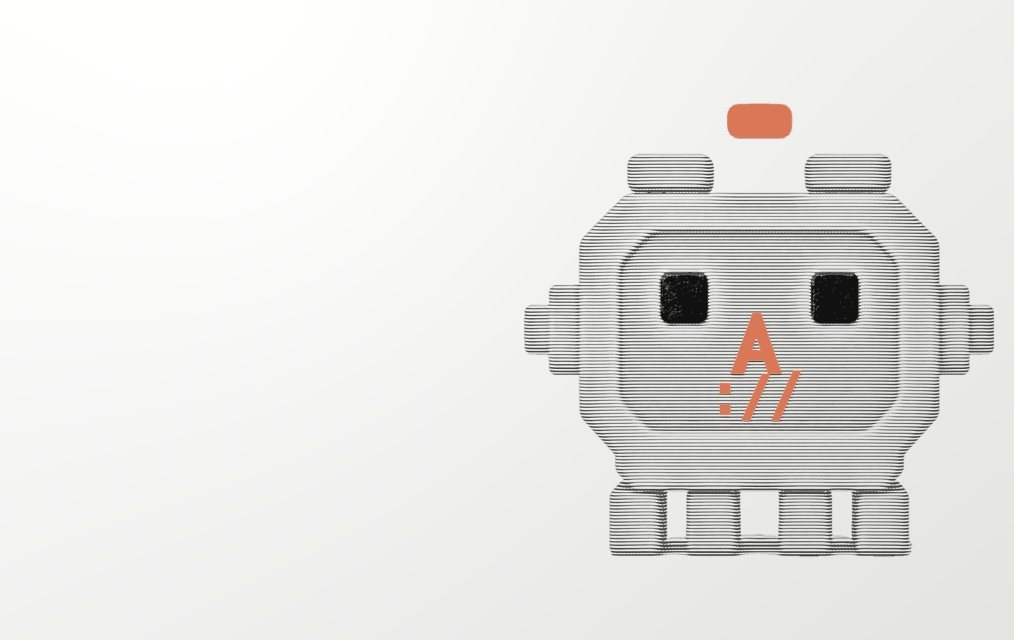
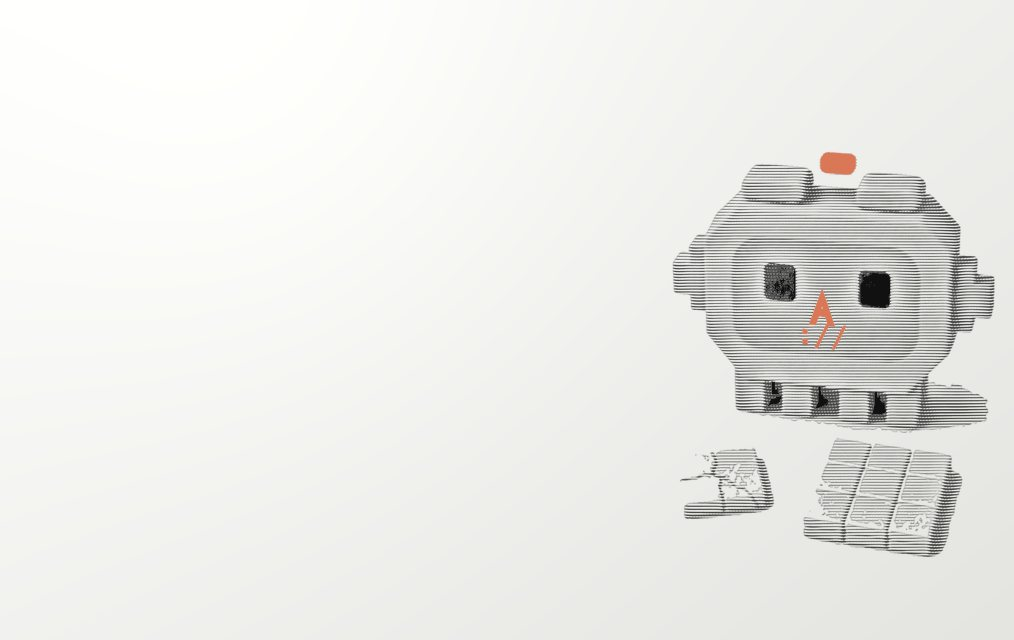
feat(console, ios): each plan card has its own Gizzi; console credit packs as vouchers
Same per-tier engraved scenes as the app (Free broken tile, Plus coral pill,
Max loupe, Ultra hero) in the console and the iPhone asset catalog. Console
credit packs use the app's voucher design on the plan materials.

Changed region(s): [[0.5197, 0.2188, 1.0, 0.875], [0.7032, 0.1562, 0.7949, 0.2188]]

diff --git a/surfaces/platform.allternit.com/src/pages/BillingPage.tsx b/surfaces/platform.allternit.com/src/pages/BillingPage.tsx
@@ -725,30 +725,53 @@ export function BillingPage() {
           <TransferToOrgPanel onTransferred={() => void load()} />
 
           <div className="grid grid-cols-2 lg:grid-cols-4 gap-3">
-            {packs.map((pack) => (
-              <div
-                key={pack.id}
-                className="rounded-xl border border-solid border-[var(--border-subtle)] bg-[var(--bg-secondary)]/40 p-4 flex flex-col"
-              >
-                <div className="text-[10px] uppercase tracking-wide text-[var(--text-tertiary)] mb-1">
-                  {pack.label}
-                </div>
-                <div className="text-[16px] font-semibold text-[var(--text-primary)]">
-                  ${pack.credits_usd.toFixed(2)} credits
-                </div>
-                <div className="text-[11px] text-[var(--text-secondary)] mt-1 mb-3">
-                  Pay ${pack.price_usd.toFixed(2)}
-                </div>
-                <button
-                  type="button"
-                  onClick={() => void handleBuyPack(pack.id)}
-                  disabled={buyingPackId !== null || !billingAvailable}
-                  className={`${QUIET_BUTTON_CLASS} mt-auto justify-center`}
+            {packs.map((pack, index) => {
+              // Vouchers on the plan materials, rising with the amount (same as the app).
+              const tier = (["free", "plus", "max", "ultra"] as const)[Math.min(3, index)];
+              const ink = {
+                free: { text: "#1b1b1a", sub: "rgba(0,0,0,.55)", stamp: ["#1b1b1a", "#fff"], light: false },
+                plus: { text: "#F2F1EC", sub: "rgba(255,255,255,.6)", stamp: ["#F2F1EC", "#111"], light: true },
+                max: { text: "#2B1C07", sub: "rgba(43,28,7,.62)", stamp: ["#2B1C07", "#E7C27A"], light: false },
+                ultra: { text: "#1E2024", sub: "rgba(30,32,36,.6)", stamp: ["#1E2024", "#F1F1EF"], light: false },
+              }[tier];
+              return (
+                <div
+                  key={pack.id}
+                  className="relative flex flex-col overflow-hidden rounded-xl bg-no-repeat"
+                  style={{
+                    color: ink.text,
+                    backgroundImage: `url(/billing/card-${tier}.jpg)`,
+                    backgroundSize: "300% auto",
+                    backgroundPosition: "0% 40%",
+                    border: tier === "free" ? "1px solid var(--border-subtle)" : undefined,
+                    boxShadow: tier === "ultra" ? "0 8px 18px rgba(0,0,0,.2), inset 0 0 0 1px rgba(255,255,255,.55)" : "0 6px 14px rgba(0,0,0,.14)",
+                  }}
                 >
-                  {buyingPackId === pack.id ? "Redirecting…" : "Buy credits"}
-                </button>
-              </div>
-            ))}
+                  <div className="px-3 pb-2 pt-2.5">
+                    <span className="font-mono" style={{ fontSize: 9, fontWeight: 700, letterSpacing: ".14em", padding: "1px 5px", borderRadius: 3, background: ink.stamp[0], color: ink.stamp[1] }}>
+                      {pack.label}
+                    </span>
+                    <div className="mt-2 font-mono text-[22px] leading-none">${pack.credits_usd.toFixed(0)}</div>
+                    <div className="mt-1 text-[10.5px]" style={{ color: ink.sub }}>
+                      Allternit Cloud credit · pay ${pack.price_usd.toFixed(2)}
+                    </div>
+                  </div>
+                  <div className="relative mt-auto px-2 pb-2 pt-2" style={{ borderTop: `1.5px dashed ${ink.light ? "rgba(255,255,255,.3)" : "rgba(0,0,0,.25)"}` }}>
+                    <i aria-hidden="true" className="absolute -left-[7px] -top-[7px] size-3 rounded-full bg-[var(--bg-primary)]" />
+                    <i aria-hidden="true" className="absolute -right-[7px] -top-[7px] size-3 rounded-full bg-[var(--bg-primary)]" />
+                    <button
+                      type="button"
+                      onClick={() => void handleBuyPack(pack.id)}
+                      disabled={buyingPackId !== null || !billingAvailable}
+                      className="w-full rounded-[9px] border-none px-2 py-1.5 text-[11.5px] font-semibold transition-opacity hover:opacity-90 disabled:cursor-not-allowed disabled:opacity-50"
+                      style={{ background: ink.stamp[0], color: ink.stamp[1] }}
+                    >
+                      {buyingPackId === pack.id ? "Redirecting…" : `Buy $${pack.price_usd.toFixed(0)}`}
+                    </button>
+                  </div>
+                </div>
+              );
+            })}
           </div>
 
           {checkoutError && (
